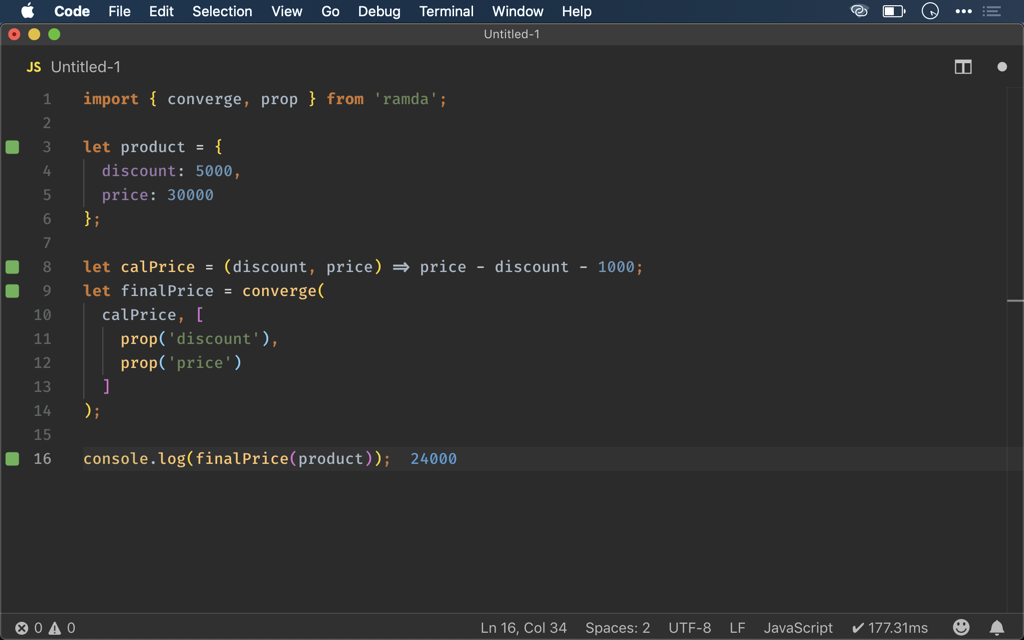
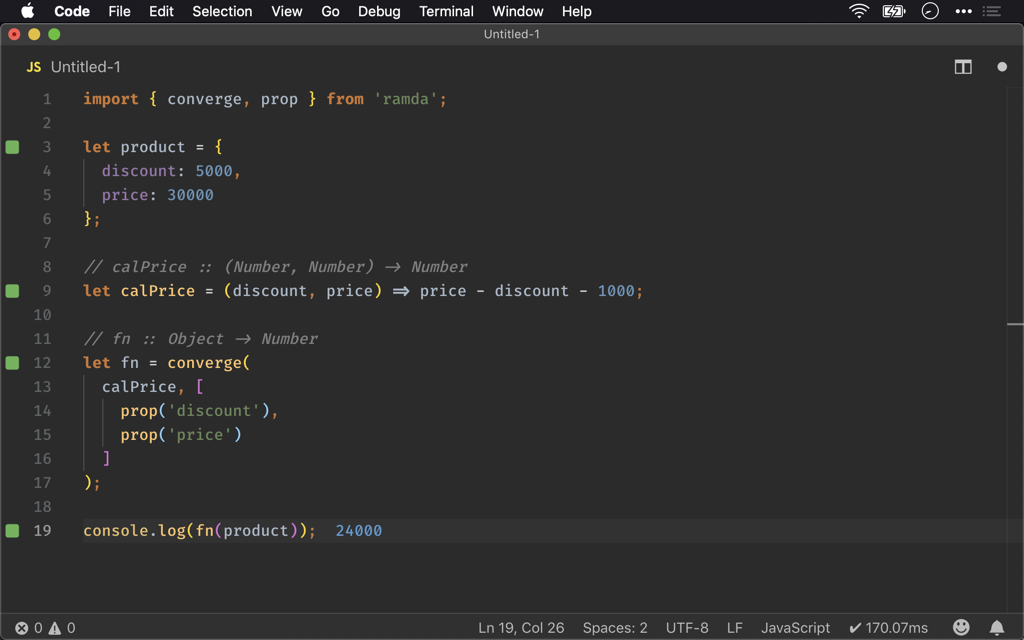
Ramda 之 call()

diff --git a/source/_posts/ramda/call.md b/source/_posts/ramda/call.md
@@ -9,7 +9,7 @@ tags:
   - Ramda/subtract
   - Ramda/flip
 feature: images/feature/ramda.png
-date: 2019-05-08 12:23:43
+date: 2019-05-14 22:23:43
 ---
 Ramda 的 `call()` 乍看很不起眼，但若搭配 `converge()` 之後，就能動態產生 Converging Function。
 
@@ -53,15 +53,17 @@ let product = {
   price: 30000
 };
 
+// calPrice :: (Number, Number) -> Number
 let calPrice = (discount, price) => price - discount - 1000;
-let finalPrice = product => calPrice(product.discount, product.price);
 
-console.log(finalPrice(product));
+// fn :: Number -> Number
+let fn = product => calPrice(product.discount, product.price);
+console.log(fn(product));
 ```
 
 `calPrice()` 傳入 `discount` 與 `price` argument，會計算出折扣後價錢。
 
-`finalPrice()` 則傳入 `product` object，再呼叫 `calPrice()`。
+`fn()` 則傳入 `product` object，再呼叫 `calPrice()`。
 
 ![call003](/images/ramda/call/call003.png)
 
@@ -75,37 +77,43 @@ let product = {
   price: 30000
 };
 
+// calPrice :: (Number, Number) -> Number
 let calPrice = (discount, price) => price - discount - 1000;
-let finalPrice = converge(
+
+// fn :: Object -> Number
+let fn = converge(
   calPrice, [
     prop('discount'),
     prop('price')
   ]
 );
 
-console.log(finalPrice(product));
+console.log(fn(product));
 ```
 
-首先將 `finalPrice()` point-free。
+首先將 `fn()` point-free。
 
-第 9 行
+11 行
 
 ```javascript
-let finalPrice = converge(
+// fn :: Object -> Number
+let fn = converge(
   calPrice, [
     prop('discount'),
     prop('price')
   ]
 );
+
+console.log(fn(product));
 ```
 
-`finalPrice()` 的 argument 為 `product` object，包含 `discount` 與 `price` property，分別傳入 `折扣` 與 `價錢`。
+`fn()` 的 argument 為 `product` object，包含 `discount` 與 `price` property，分別傳入 `折扣` 與 `價錢`。
 
 最後要執行的是 `calPrice()`，分別有 `discount` 與 `price` 兩個 argument。
 
-由於傳入 `finalPrice()` 的是 object，因此勢必要先使用 `prop()` 拆解後才能傳給 `calPrice()` 執行。
+由於傳入 `fn()` 的是 object，因此勢必要先使用 `prop()` 拆解後才能傳給 `calPrice()` 執行。
 
-這正是使用 `converge()` 時機，將 `calPrice()` 當作 converging function，將 `prop()` 當作 branching function。
+這正是使用 `fn()` 時機，將 `calPrice()` 當作 converging function，將 `prop()` 當作 branching function。
 
 目前就功能而言沒問題，唯 `calPrice()` 並非 point-free，是否有繼續優化空間呢 ?
 
@@ -119,20 +127,21 @@ let product = {
   price: 30000
 };
 
+// calPrice :: (Number, Number) -> Number
 let calPrice = pipe(
   add(1000),
   flip(subtract)
 );
 
-let finalPrice = converge(
+// fn :: Object -> Number
+let fn = converge(
   call, [
     pipe(prop('discount'), calPrice),
     prop('price')
   ]
 );
 
-let result = finalPrice(product);
-console.log(result);
+console.log(fn(product));
 ```
 
 由於 `calPrice()` 有兩個 argument：`discount` 與 `price`，基於 currying 特性，可將 `calPrice()` 視為由 `discount` 產生的 function，其 argument 只剩下 `price`。
@@ -140,6 +149,7 @@ console.log(result);
 第 8 行
 
 ```javascript
+// calPrice :: (Number, Number) -> Number
 let calPrice = pipe(
   add(1000),
   flip(subtract)
@@ -152,10 +162,11 @@ let calPrice = pipe(
 
 我們發現 `calPrice()` 已經 point-free 了。
 
-13 行
+14 行
 
 ```javascript
-let finalPrice = converge(
+// fn :: Object -> Number
+let fn = converge(
   call, [
     pipe(prop('discount'), calPrice),
     prop('price')
